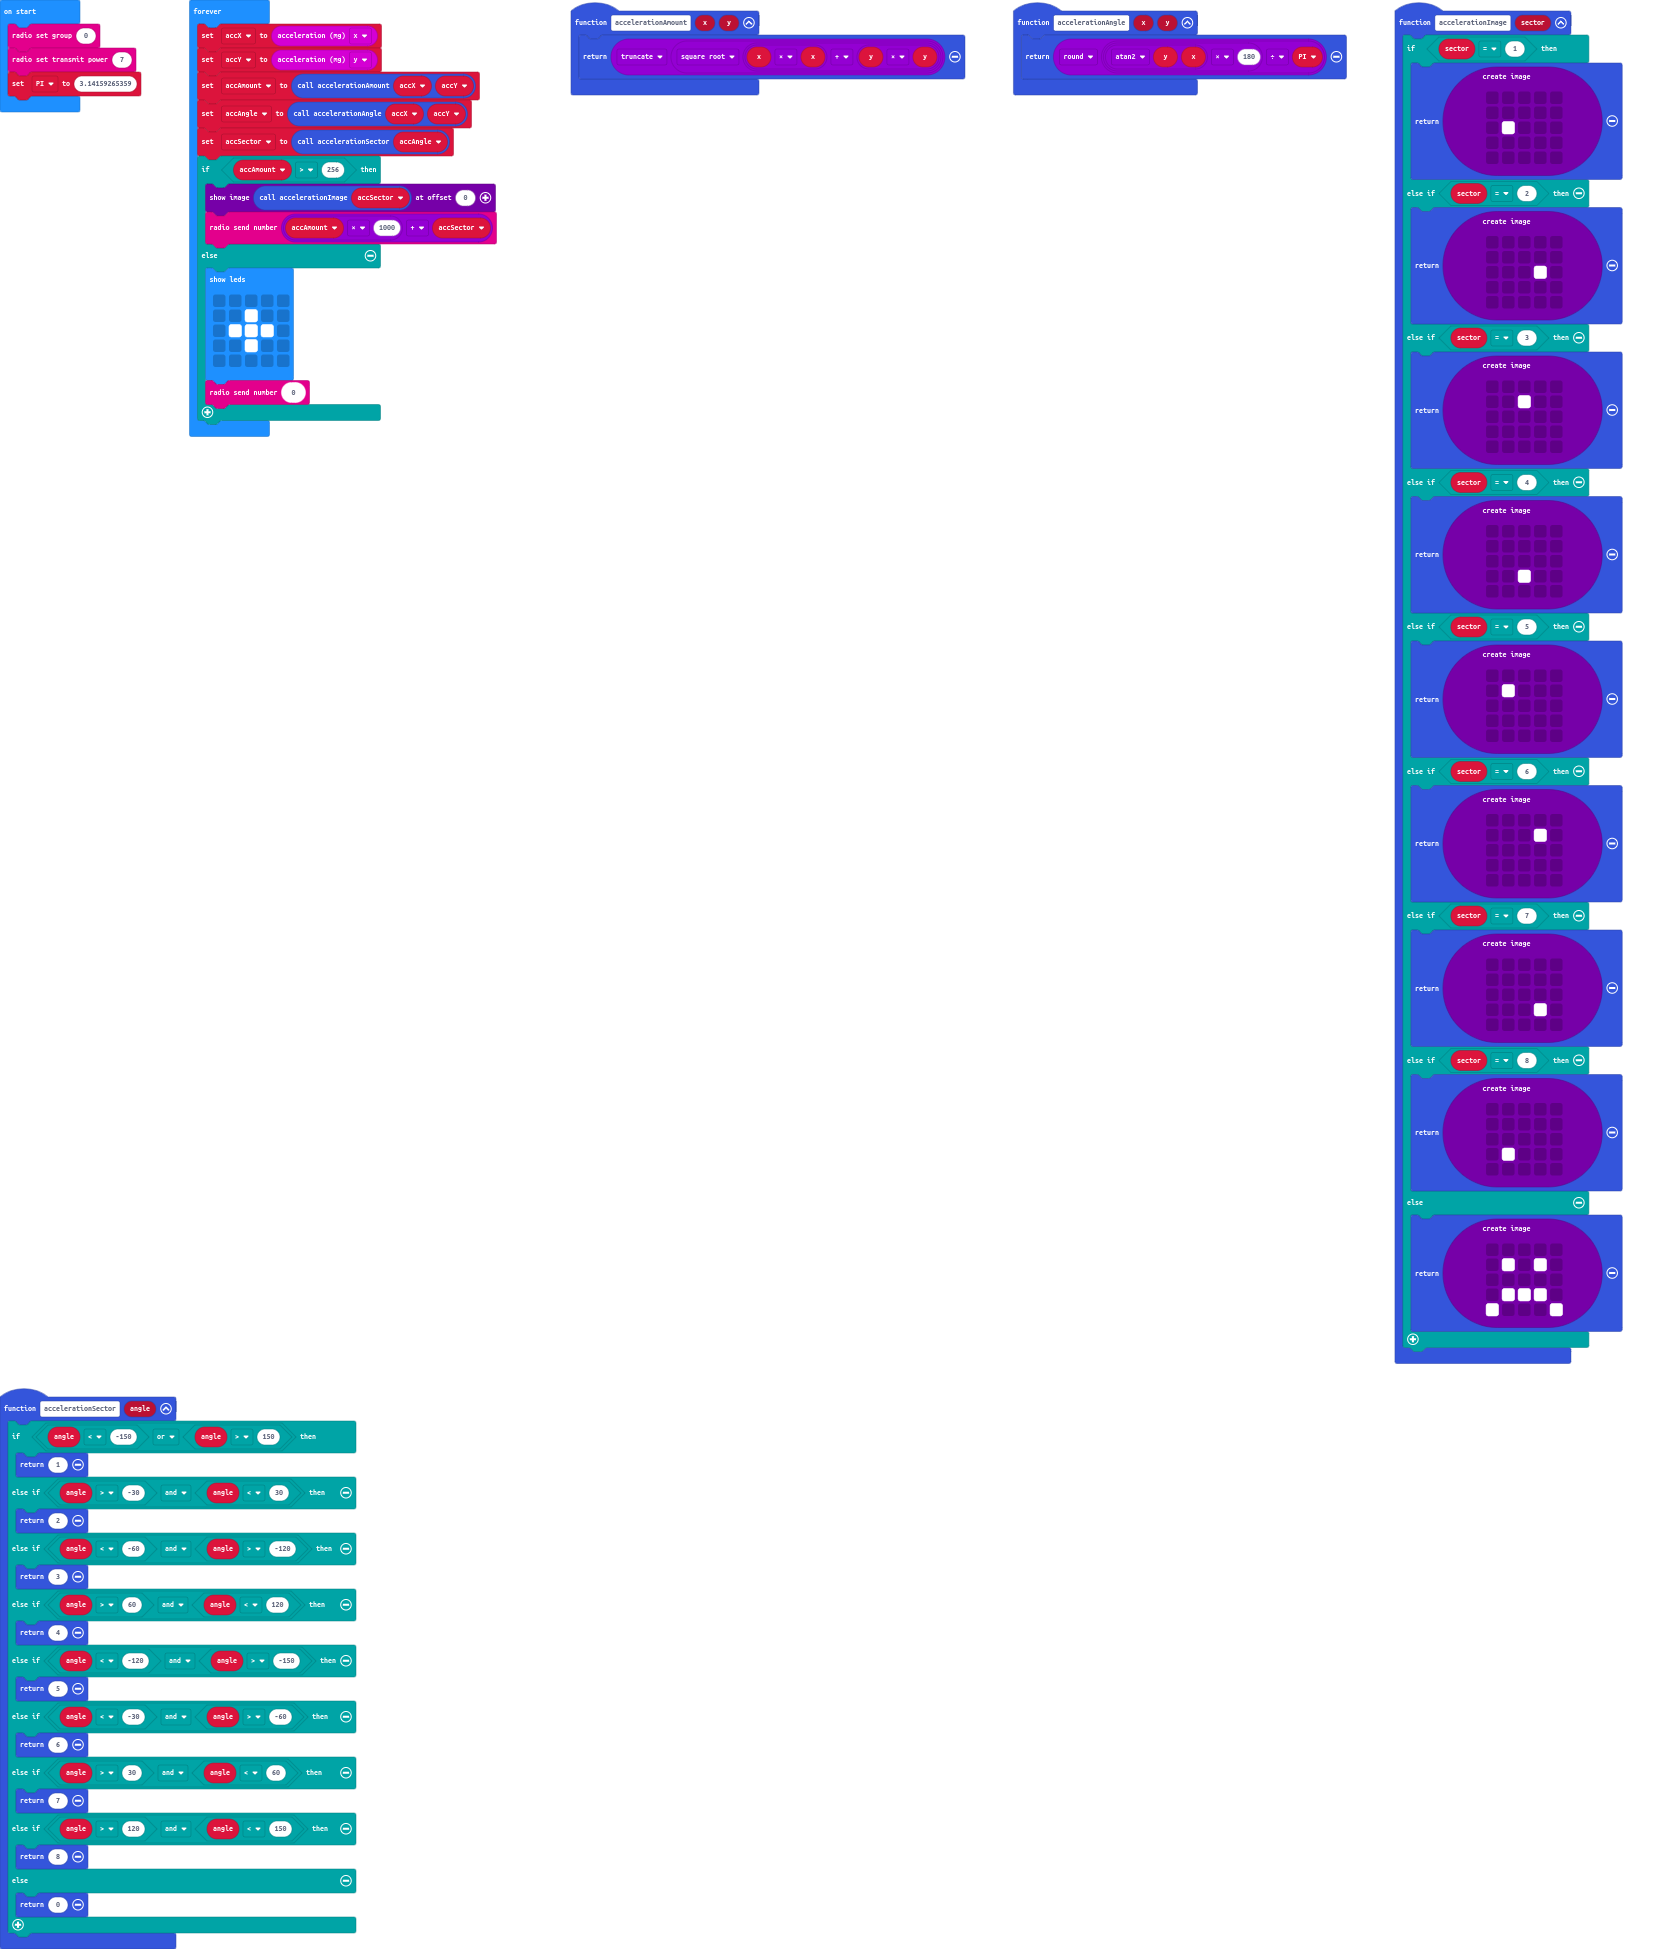
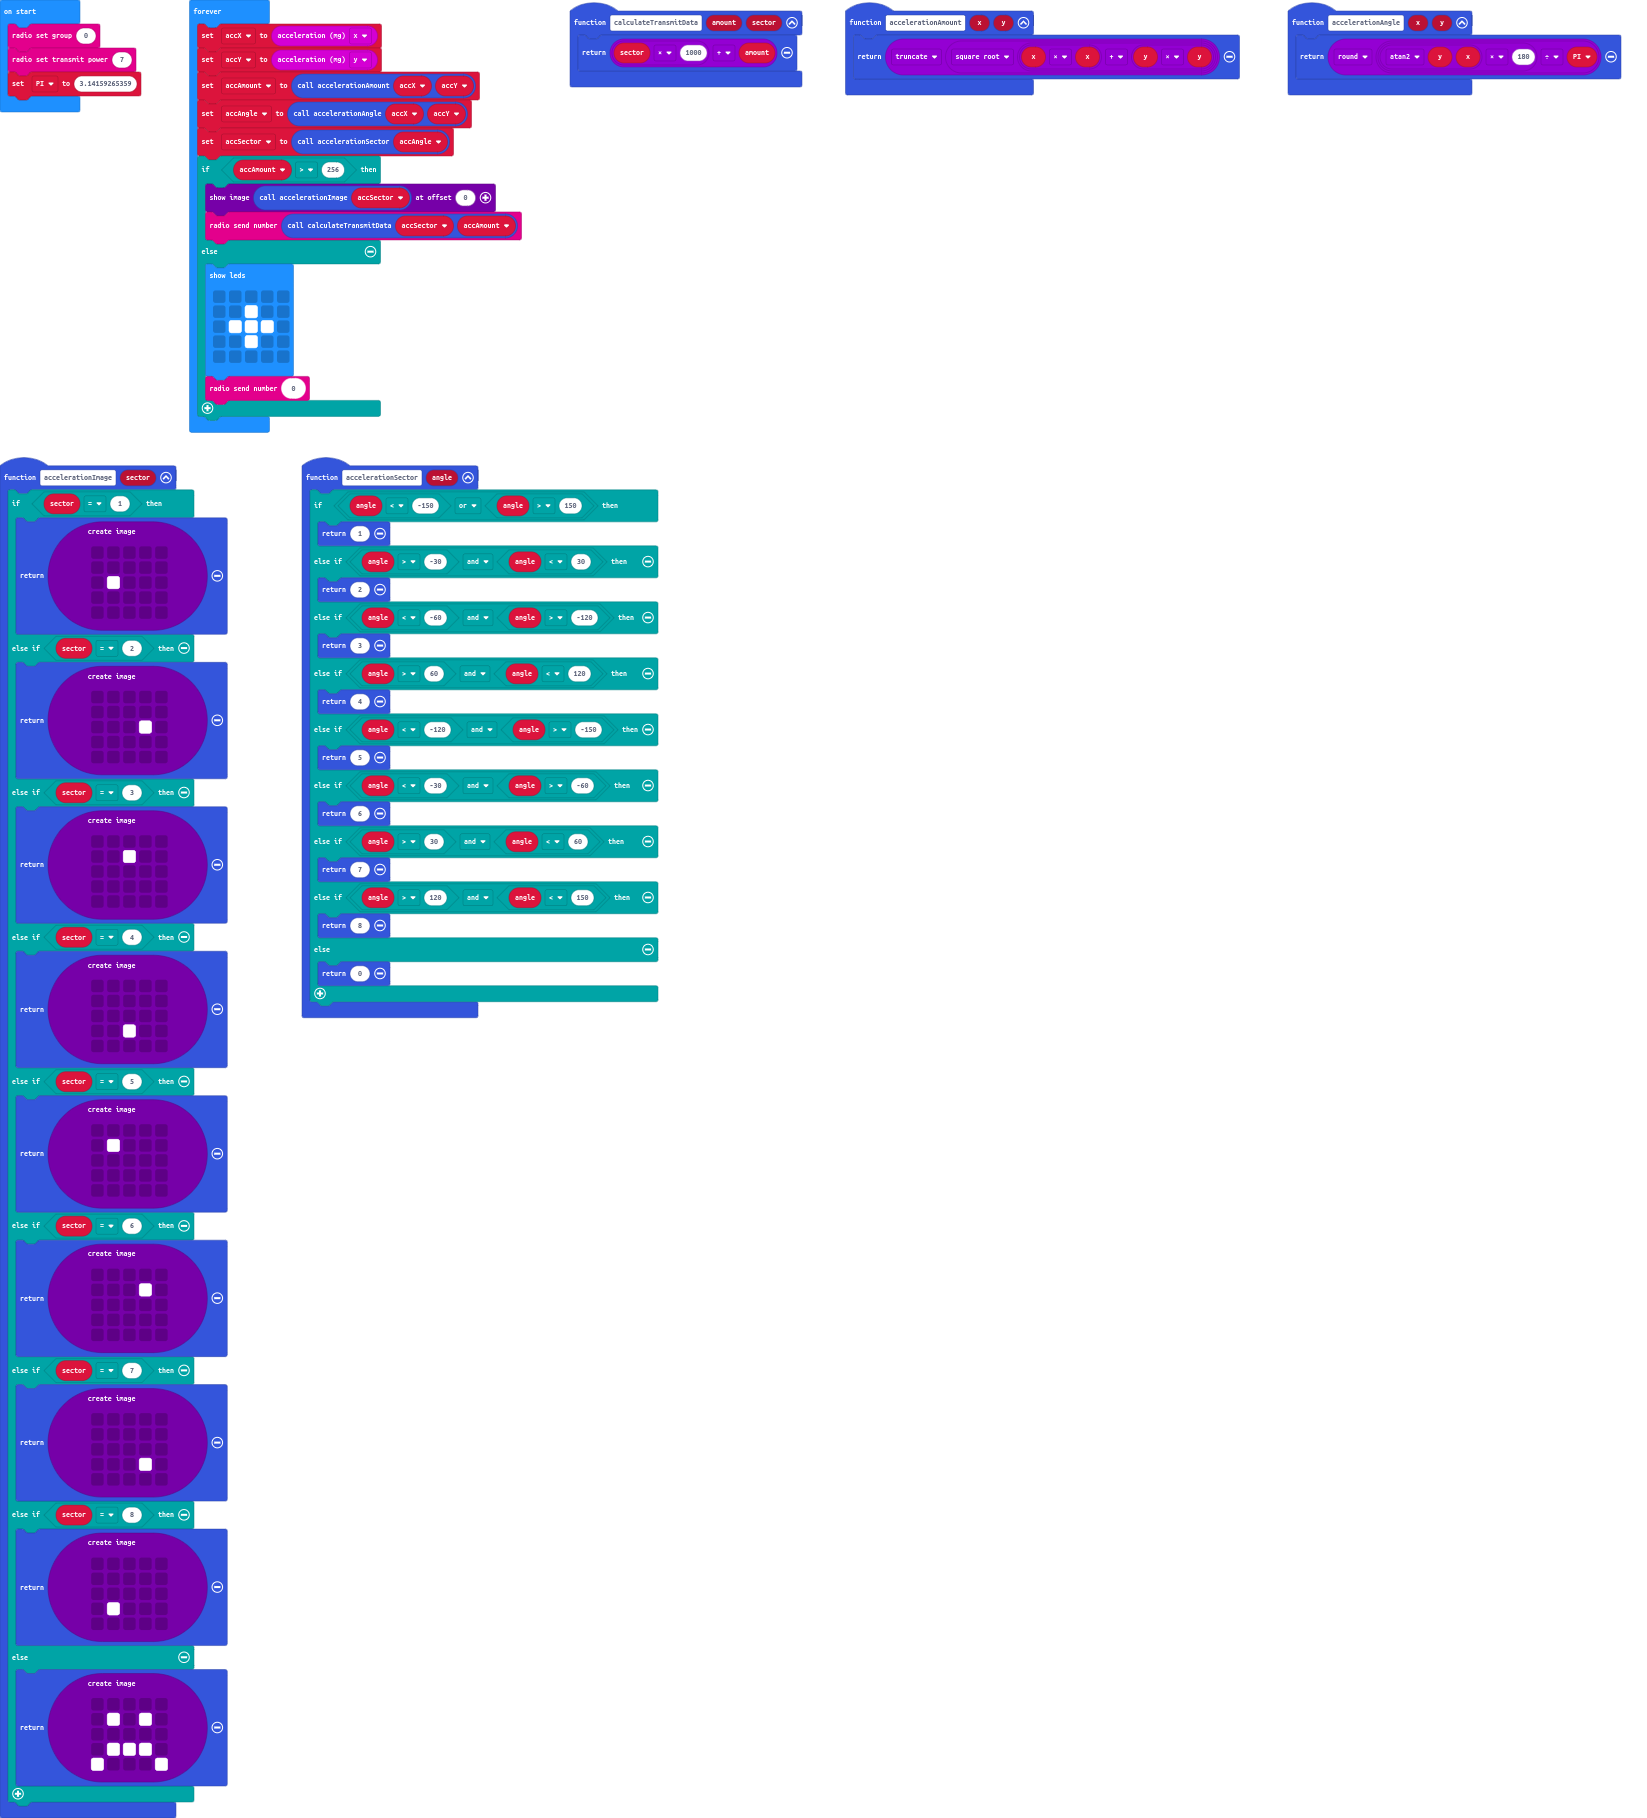
calculateTransmitData

Changed region(s): [[0.0, 0.0, 0.4026, 1.0], [0.3406, 0.0, 0.9909, 0.7085]]

diff --git a/main.ts b/main.ts
@@ -22,6 +22,9 @@ function accelerationSector (angle: number) {
 function accelerationAmount (x: number, y: number) {
     return Math.trunc(Math.sqrt(x * x + y * y))
 }
+function calculateTransmitData (amount: number, sector: number) {
+    return sector * 1000 + amount
+}
 function accelerationImage (sector: number) {
     if (sector == 1) {
         return images.createImage(`
@@ -117,7 +120,7 @@ basic.forever(function () {
     accSector = accelerationSector(accAngle)
     if (accAmount > 256) {
         accelerationImage(accSector).showImage(0)
-        radio.sendNumber(accAmount * 1000 + accSector)
+        radio.sendNumber(calculateTransmitData(accSector, accAmount))
     } else {
         basic.showLeds(`
             . . . . .
